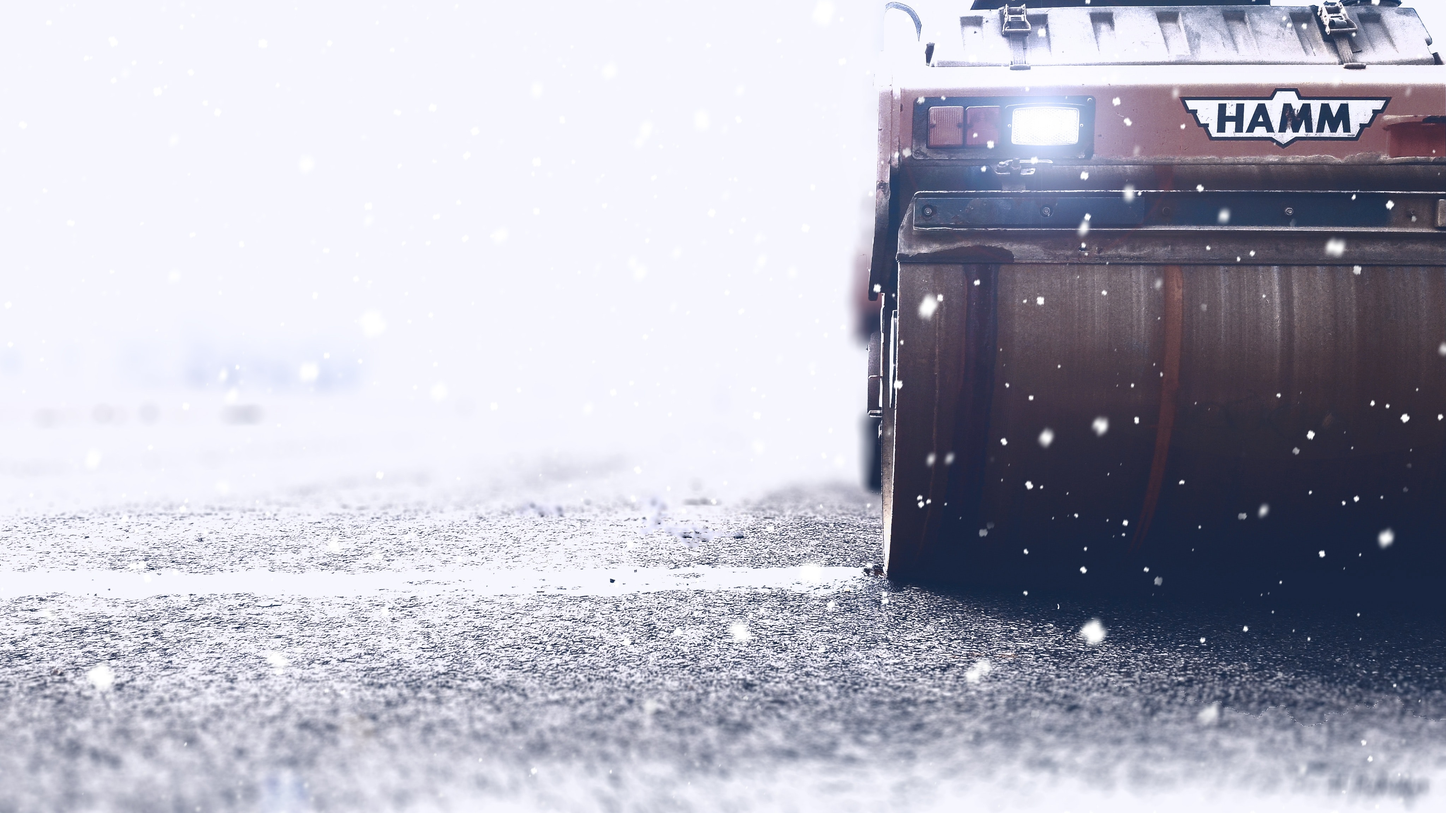
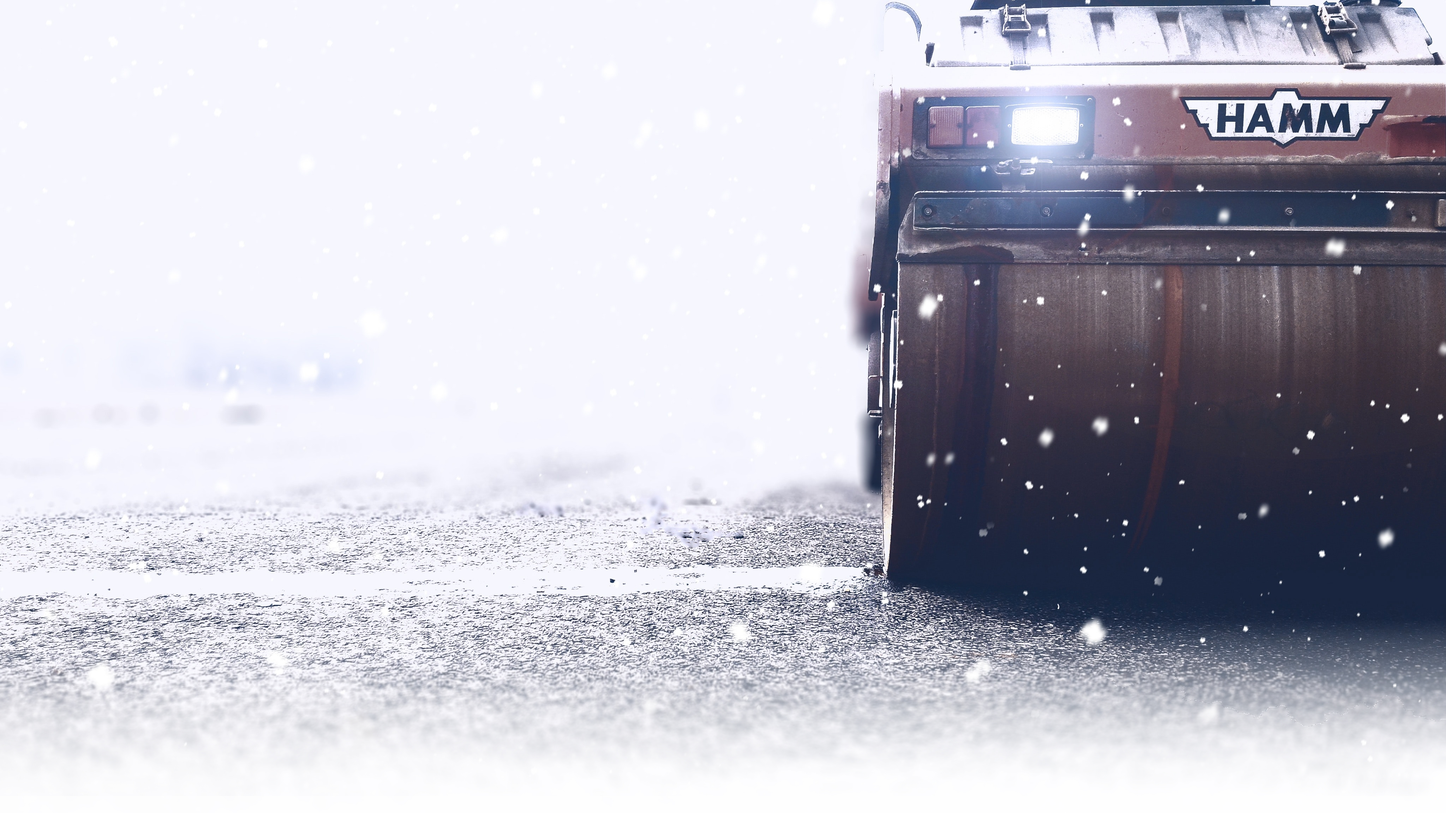
Background image bobbing fix
Fix background bobbing when different tabs are opened

Changed region(s): [[0.0, 0.7812, 1.0, 1.0]]

diff --git a/src/App.css b/src/App.css
@@ -3,11 +3,12 @@
   flex-direction:column;
   align-items:stretch;
   min-height: 100%;
+  height: 100%;
   background-color: white;
   background-image: url(./images/frontpage2.jpg);
   background-size: cover;
   background-repeat: no-repeat;
-  background-position: center center;
+  background-position: top right;
 }
 
 .App-header {
